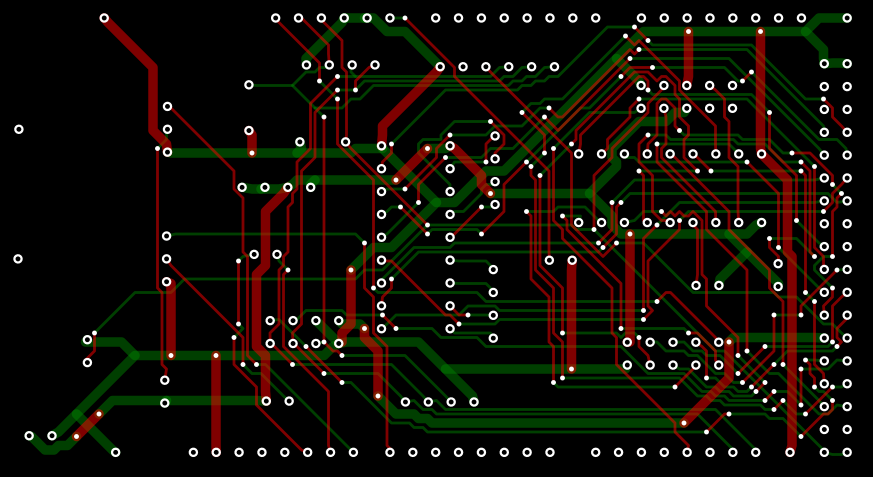
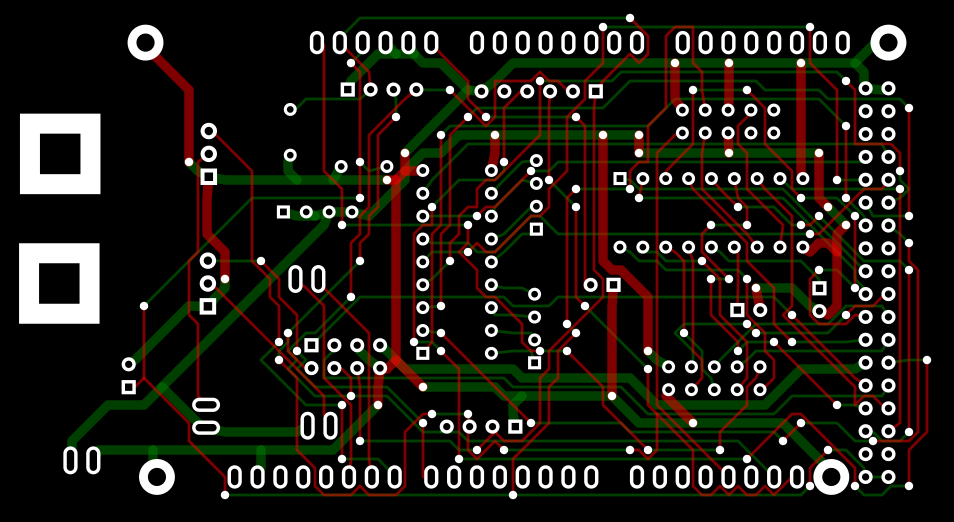
Pin rotation corrected

diff --git a/dsn2pcb.go b/dsn2pcb.go
@@ -59,10 +59,15 @@ type circuit struct {
 	rule *rule
 }
 
-func shape_to_cords(s *[]point) *router.Cords {
+func shape_to_cords(shape *[]point, a1, a2 float64) *router.Cords {
 	cords := router.Cords{}
-	for _, p := range *s {
-		cords = append(cords, &router.Cord{float32(p.x), float32(p.y)})
+	rads := math.Mod(a1 + a2, 2 * math.Pi)
+	s := math.Sin(rads)
+	c := math.Cos(rads)
+	for _, p := range *shape {
+		px := (c*p.x - s*p.y)
+		py := (s*p.x + c*p.y)
+		cords = append(cords, &router.Cord{float32(px), float32(py)})
 	}
 	return &cords
 }
@@ -333,6 +338,7 @@ func main() {
 						pin.name = pin_node.branches[2].value
 						pin.x, _ = strconv.ParseFloat(*pin_node.branches[3].value, 32)
 						pin.y, _ = strconv.ParseFloat(*pin_node.branches[4].value, 32)
+						pin.angle = pin.angle * (math.Pi / 180.0)
 					} else {
 						pin.angle = 0.0
 						pin.name = pin_node.branches[1].value
@@ -403,6 +409,7 @@ func main() {
 			instance.y, _ = strconv.ParseFloat(*place_tree.branches[2].value, 32)
 			instance.side = place_tree.branches[3].value
 			instance.angle, _ = strconv.ParseFloat(*place_tree.branches[4].value, 32)
+			instance.angle = instance.angle * (math.Pi / 180.0)
 			instance.x /= 1000.0
 			instance.y /= 1000.0
 			instance_map[*instance_name] = &instance
@@ -418,14 +425,13 @@ func main() {
 			if *instance.side != "front" {
 				x = -x
 			}
-			angle := instance.angle * (math.Pi / 180.0)
-			s := math.Sin(angle)
-			c := math.Cos(angle)
+			s := math.Sin(instance.angle)
+			c := math.Cos(instance.angle)
 			px := (c*x - s*y) + instance.x
 			py := (s*x + c*y) + instance.y
 			pin_rule := rule_map[*pin.form]
 			tp := router.Tpoint{float32(px), float32(py), 0.0}
-			cords := shape_to_cords(pin_rule.shape)
+			cords := shape_to_cords(pin_rule.shape, pin.angle, instance.angle)
 			all_terminals = append(all_terminals, &router.Terminal{float32(pin_rule.radius), float32(pin_rule.gap), tp, *cords})
 			if px < minx {
 				minx = px
@@ -489,14 +495,13 @@ func main() {
 				if *instance.side != "front" {
 					x = -x
 				}
-				angle := instance.angle * (math.Pi / 180.0)
-				s := math.Sin(angle)
-				c := math.Cos(angle)
+				s := math.Sin(instance.angle)
+				c := math.Cos(instance.angle)
 				px := (c*x - s*y) + instance.x
 				py := (s*x + c*y) + instance.y
 				pin_rule := rule_map[*pin.form]
 				tp := router.Tpoint{float32(px), float32(py), 0.0}
-				cords := shape_to_cords(pin_rule.shape)
+				cords := shape_to_cords(pin_rule.shape, pin.angle, instance.angle)
 				term := router.Terminal{float32(pin_rule.radius), float32(pin_rule.gap), tp, *cords}
 				terminals = append(terminals, &term)
 				for i, t := range all_terminals {
